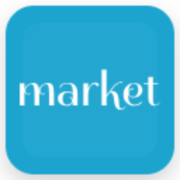
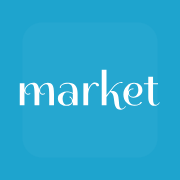
Updates

Changed region(s): [[0.0, 0.0, 1.0, 1.0], [0.0833, 0.3611, 0.8889, 0.6111]]

diff --git a/sw.js b/sw.js
@@ -1,1 +1,1 @@
-if(!self.define){let e,i={};const r=(r,n)=>(r=new URL(r+".js",n).href,i[r]||new Promise(i=>{if("document"in self){const e=document.createElement("script");e.src=r,e.onload=i,document.head.appendChild(e)}else e=r,importScripts(r),i()}).then(()=>{let e=i[r];if(!e)throw new Error(`Module ${r} didn’t register its module`);return e}));self.define=(n,c)=>{const s=e||("document"in self?document.currentScript.src:"")||location.href;if(i[s])return;let o={};const d=e=>r(e,s),a={module:{uri:s},exports:o,require:d};i[s]=Promise.all(n.map(e=>a[e]||d(e))).then(e=>(c(...e),o))}}define(["./workbox-c3c0f0d9"],function(e){"use strict";self.skipWaiting(),e.clientsClaim(),e.precacheAndRoute([{url:"android-chrome-192x192.png",revision:"53d77f0d16b9ac1f89803955fae628dd"},{url:"android-chrome-512x512.png",revision:"fb04c805871aa58422890eb3ce4143c5"},{url:"apple-touch-icon.png",revision:"f04729b8a189d4c91de9c437330db7d6"},{url:"assets/index-BQpEYuNU.js",revision:null},{url:"assets/index-BYKi6Lsu.css",revision:null},{url:"favicon-16x16.png",revision:"452f2e8f0fd19aa8348abd1746e98259"},{url:"favicon-32x32.png",revision:"58b0c992b5d4418f6c482635885df0c5"},{url:"favicon.ico",revision:"fc384d04871d788fc95e03567602eb5d"},{url:"index.html",revision:"4115affab2631644dfba4e614aa3d8c3"},{url:"market.ico",revision:"a6d7c444574c55e327d98fa3fe73a36c"},{url:"market.svg",revision:"2dd97ffd92e61c1055992cc0e7bd8ec0"},{url:"mug.svg",revision:"3aafac908fc5452d9ff63be74d40ccf6"},{url:"registerSW.js",revision:"daae25fffb51678aec7b100884454a61"},{url:"shirt.svg",revision:"2c4a91ab65f15c412d45c3f16c8a675e"},{url:"vite.svg",revision:"8e3a10e157f75ada21ab742c022d5430"},{url:"android-chrome-192x192.png",revision:"53d77f0d16b9ac1f89803955fae628dd"},{url:"android-chrome-512x512.png",revision:"fb04c805871aa58422890eb3ce4143c5"},{url:"manifest.webmanifest",revision:"f0c0bb61ecb4771419c5a1659e566be6"}],{}),e.cleanupOutdatedCaches(),e.registerRoute(new e.NavigationRoute(e.createHandlerBoundToURL("index.html"),{denylist:[/\.json$/]})),e.registerRoute(/\/jot-market\/.*\.json$/,new e.StaleWhileRevalidate({cacheName:"json-data-cache",plugins:[new e.CacheableResponsePlugin({statuses:[0,200]})]}),"GET")});
+if(!self.define){let e,i={};const n=(n,r)=>(n=new URL(n+".js",r).href,i[n]||new Promise(i=>{if("document"in self){const e=document.createElement("script");e.src=n,e.onload=i,document.head.appendChild(e)}else e=n,importScripts(n),i()}).then(()=>{let e=i[n];if(!e)throw new Error(`Module ${n} didn’t register its module`);return e}));self.define=(r,s)=>{const a=e||("document"in self?document.currentScript.src:"")||location.href;if(i[a])return;let c={};const o=e=>n(e,a),f={module:{uri:a},exports:c,require:o};i[a]=Promise.all(r.map(e=>f[e]||o(e))).then(e=>(s(...e),c))}}define(["./workbox-c3c0f0d9"],function(e){"use strict";self.skipWaiting(),e.clientsClaim(),e.precacheAndRoute([{url:"android-chrome-192x192.png",revision:"53d77f0d16b9ac1f89803955fae628dd"},{url:"android-chrome-512x512.png",revision:"fb04c805871aa58422890eb3ce4143c5"},{url:"apple-touch-icon.png",revision:"64a8a46573956a71929d21ecca49833b"},{url:"assets/index-BQpEYuNU.js",revision:null},{url:"assets/index-BYKi6Lsu.css",revision:null},{url:"favicon-16x16.png",revision:"452f2e8f0fd19aa8348abd1746e98259"},{url:"favicon-32x32.png",revision:"58b0c992b5d4418f6c482635885df0c5"},{url:"favicon-96x96.png",revision:"f87132101302471ea719938bb8bfeb35"},{url:"favicon.ico",revision:"49427aaa152e350100825c395f25f473"},{url:"favicon.svg",revision:"c06f64ef60f8398c39dd14430e2973e8"},{url:"index.html",revision:"6265ff596484b5d1c2f16faa1a477831"},{url:"market.ico",revision:"a6d7c444574c55e327d98fa3fe73a36c"},{url:"market.svg",revision:"2dd97ffd92e61c1055992cc0e7bd8ec0"},{url:"mug.svg",revision:"3aafac908fc5452d9ff63be74d40ccf6"},{url:"registerSW.js",revision:"daae25fffb51678aec7b100884454a61"},{url:"shirt.svg",revision:"2c4a91ab65f15c412d45c3f16c8a675e"},{url:"vite.svg",revision:"8e3a10e157f75ada21ab742c022d5430"},{url:"web-app-manifest-192x192.png",revision:"b296f162a1d10575378906d60f951d52"},{url:"web-app-manifest-512x512.png",revision:"8e74a8bda1e709b5e7d83421d8623914"},{url:"android-chrome-192x192.png",revision:"53d77f0d16b9ac1f89803955fae628dd"},{url:"android-chrome-512x512.png",revision:"fb04c805871aa58422890eb3ce4143c5"},{url:"manifest.webmanifest",revision:"f0c0bb61ecb4771419c5a1659e566be6"}],{}),e.cleanupOutdatedCaches(),e.registerRoute(new e.NavigationRoute(e.createHandlerBoundToURL("index.html"),{denylist:[/\.json$/]})),e.registerRoute(/\/jot-market\/.*\.json$/,new e.StaleWhileRevalidate({cacheName:"json-data-cache",plugins:[new e.CacheableResponsePlugin({statuses:[0,200]})]}),"GET")});

diff --git a/index.html b/index.html
@@ -2,23 +2,10 @@
 <html lang="en">
   <head>
     <meta charset="UTF-8" />
-    <link
-      rel="icon"
-      type="image/png"
-      sizes="32x32"
-      href="/jot-market/favicon-32x32.png"
-    />
-    <link
-      rel="icon"
-      type="image/png"
-      sizes="16x16"
-      href="/jot-market/favicon-16x16.png"
-    />
-    <link
-      rel="apple-touch-icon"
-      sizes="180x180"
-      href="/jot-market/apple-touch-icon.png"
-    />
+    <link rel="icon" type="image/png" href="/jot-market/favicon-96x96.png" sizes="96x96" />
+    <link rel="icon" type="image/svg+xml" href="/jot-market/favicon.svg" />
+    <link rel="shortcut icon" href="/jot-market/favicon.ico" />
+    <link rel="apple-touch-icon" sizes="180x180" href="/jot-market/apple-touch-icon.png" />
     <meta name="viewport" content="width=device-width, initial-scale=1.0" />
     <title>JotMarket</title>
     <script type="module" crossorigin src="/jot-market/assets/index-BQpEYuNU.js"></script>
